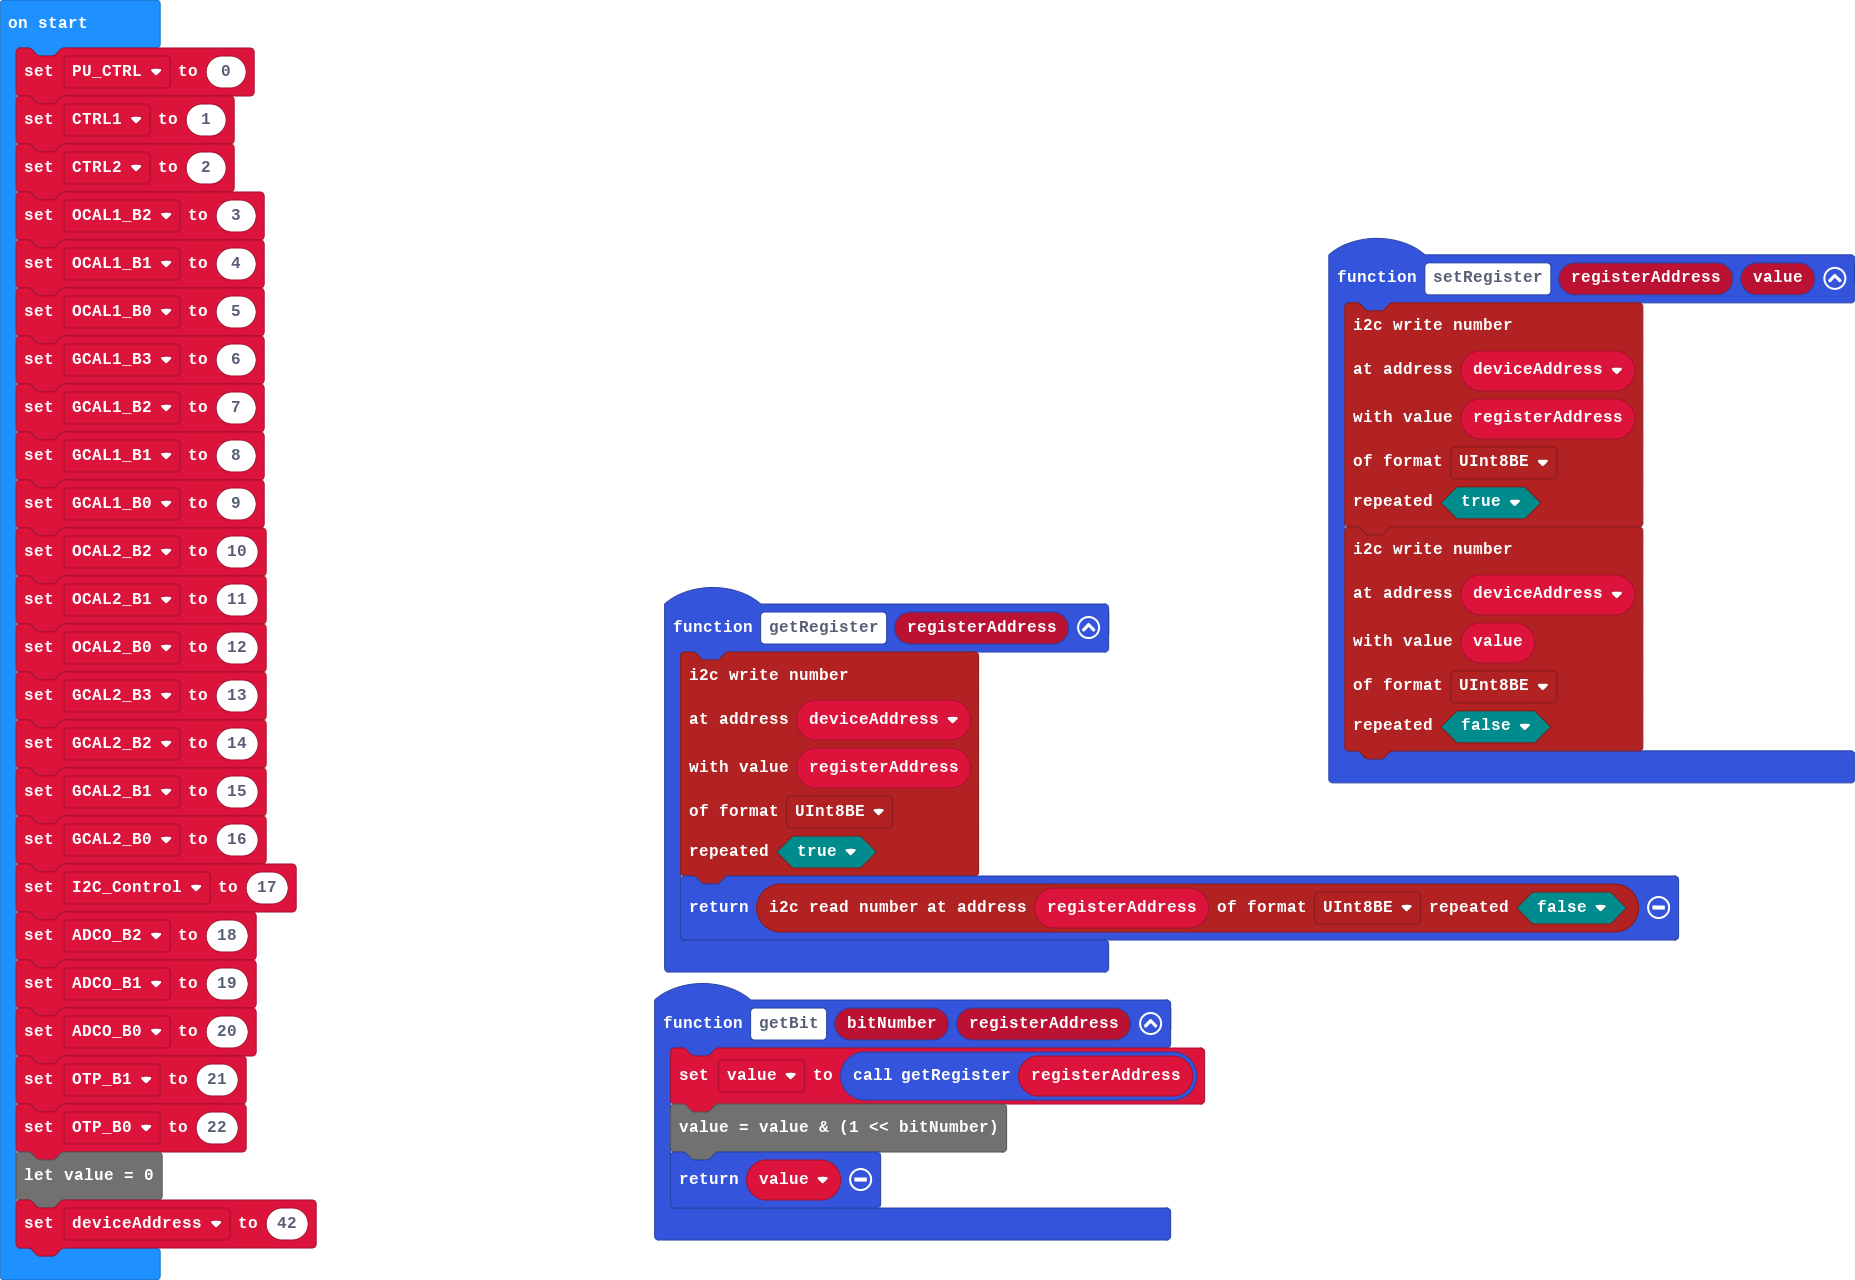
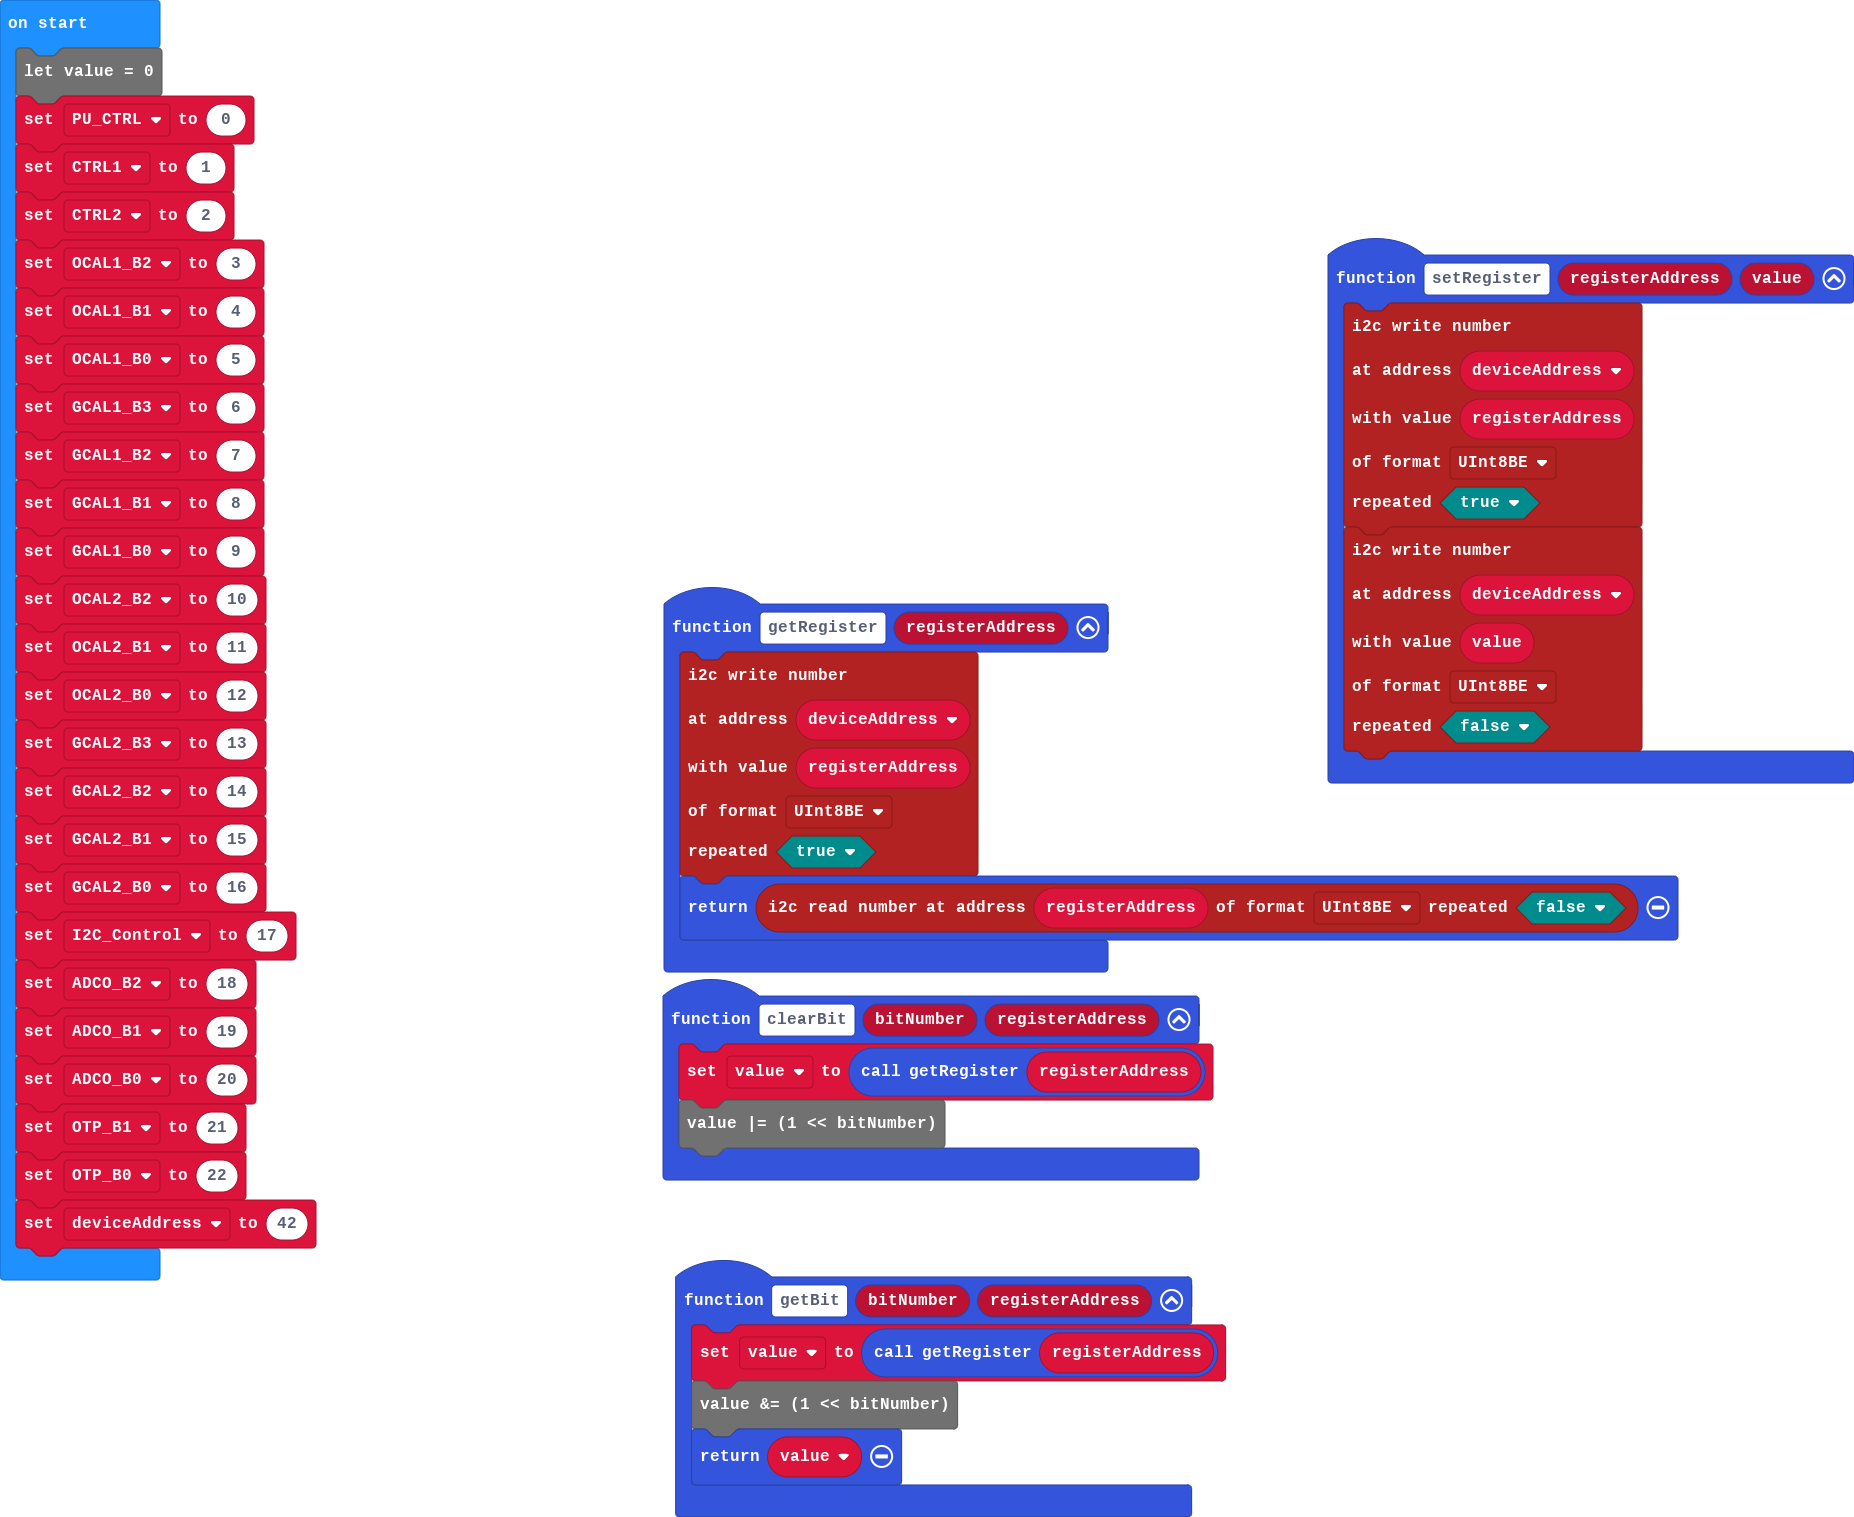
clearBit

Changed region(s): [[0.3382, 0.1562, 1.0, 1.0], [0.0, 0.0, 0.1845, 1.0]]

diff --git a/main.ts b/main.ts
@@ -9,8 +9,12 @@ function getRegister (registerAddress: number) {
 }
 function getBit (bitNumber: number, registerAddress: number) {
     value = getRegister(registerAddress)
-    value = value & (1 << bitNumber)
+    value &= (1 << bitNumber)
 return value
+}
+function clearBit (bitNumber: number, registerAddress: number) {
+    value = getRegister(registerAddress)
+    value |= (1 << bitNumber)
 }
 function setRegister (registerAddress: number, value: number) {
     pins.i2cWriteNumber(
@@ -27,6 +31,7 @@ function setRegister (registerAddress: number, value: number) {
     )
 }
 let deviceAddress = 0
+let value = 0
 let PU_CTRL = 0
 let CTRL1 = 1
 let CTRL2 = 2
@@ -50,5 +55,4 @@ let ADCO_B1 = 19
 let ADCO_B0 = 20
 let OTP_B1 = 21
 let OTP_B0 = 22
-let value = 0
 deviceAddress = 42
